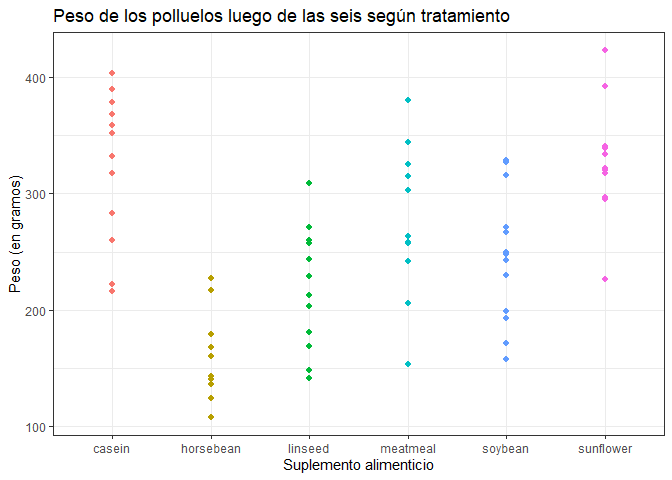
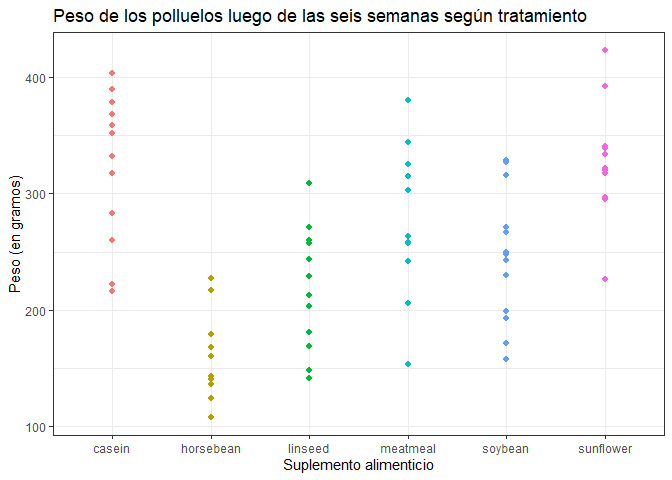
Final

Changed region(s): [[0.5625, 0.0, 0.875, 0.0625]]

diff --git a/Borrador Tarea.md b/Borrador Tarea.md
@@ -11,7 +11,7 @@ ggplot(data = chickwts) + theme_bw() + aes(x = feed, y = weight, color = feed) +
   geom_point(size = 1.9) + 
   theme(legend.position = "none") + 
   labs(x="Suplemento alimenticio", y="Peso (en gramos)",
-       title = "Peso de los polluelos luego de las seis según tratamiento")
+       title = "Peso de los polluelos luego de las seis semanas según tratamiento")
 ```
 
 ![](Borrador-Tarea_files/figure-commonmark/unnamed-chunk-1-1.png)
@@ -50,4 +50,13 @@ año:
 
 ### Tabla creada con código de R.
 
-    [1] 4
+Se muestra una tabla creada con código de R, el cual está oculto.
+
+| feed      |     mean |
+|:----------|---------:|
+| casein    | 323.5833 |
+| horsebean | 160.2000 |
+| linseed   | 218.7500 |
+| meatmeal  | 276.9091 |
+| soybean   | 246.4286 |
+| sunflower | 328.9167 |
